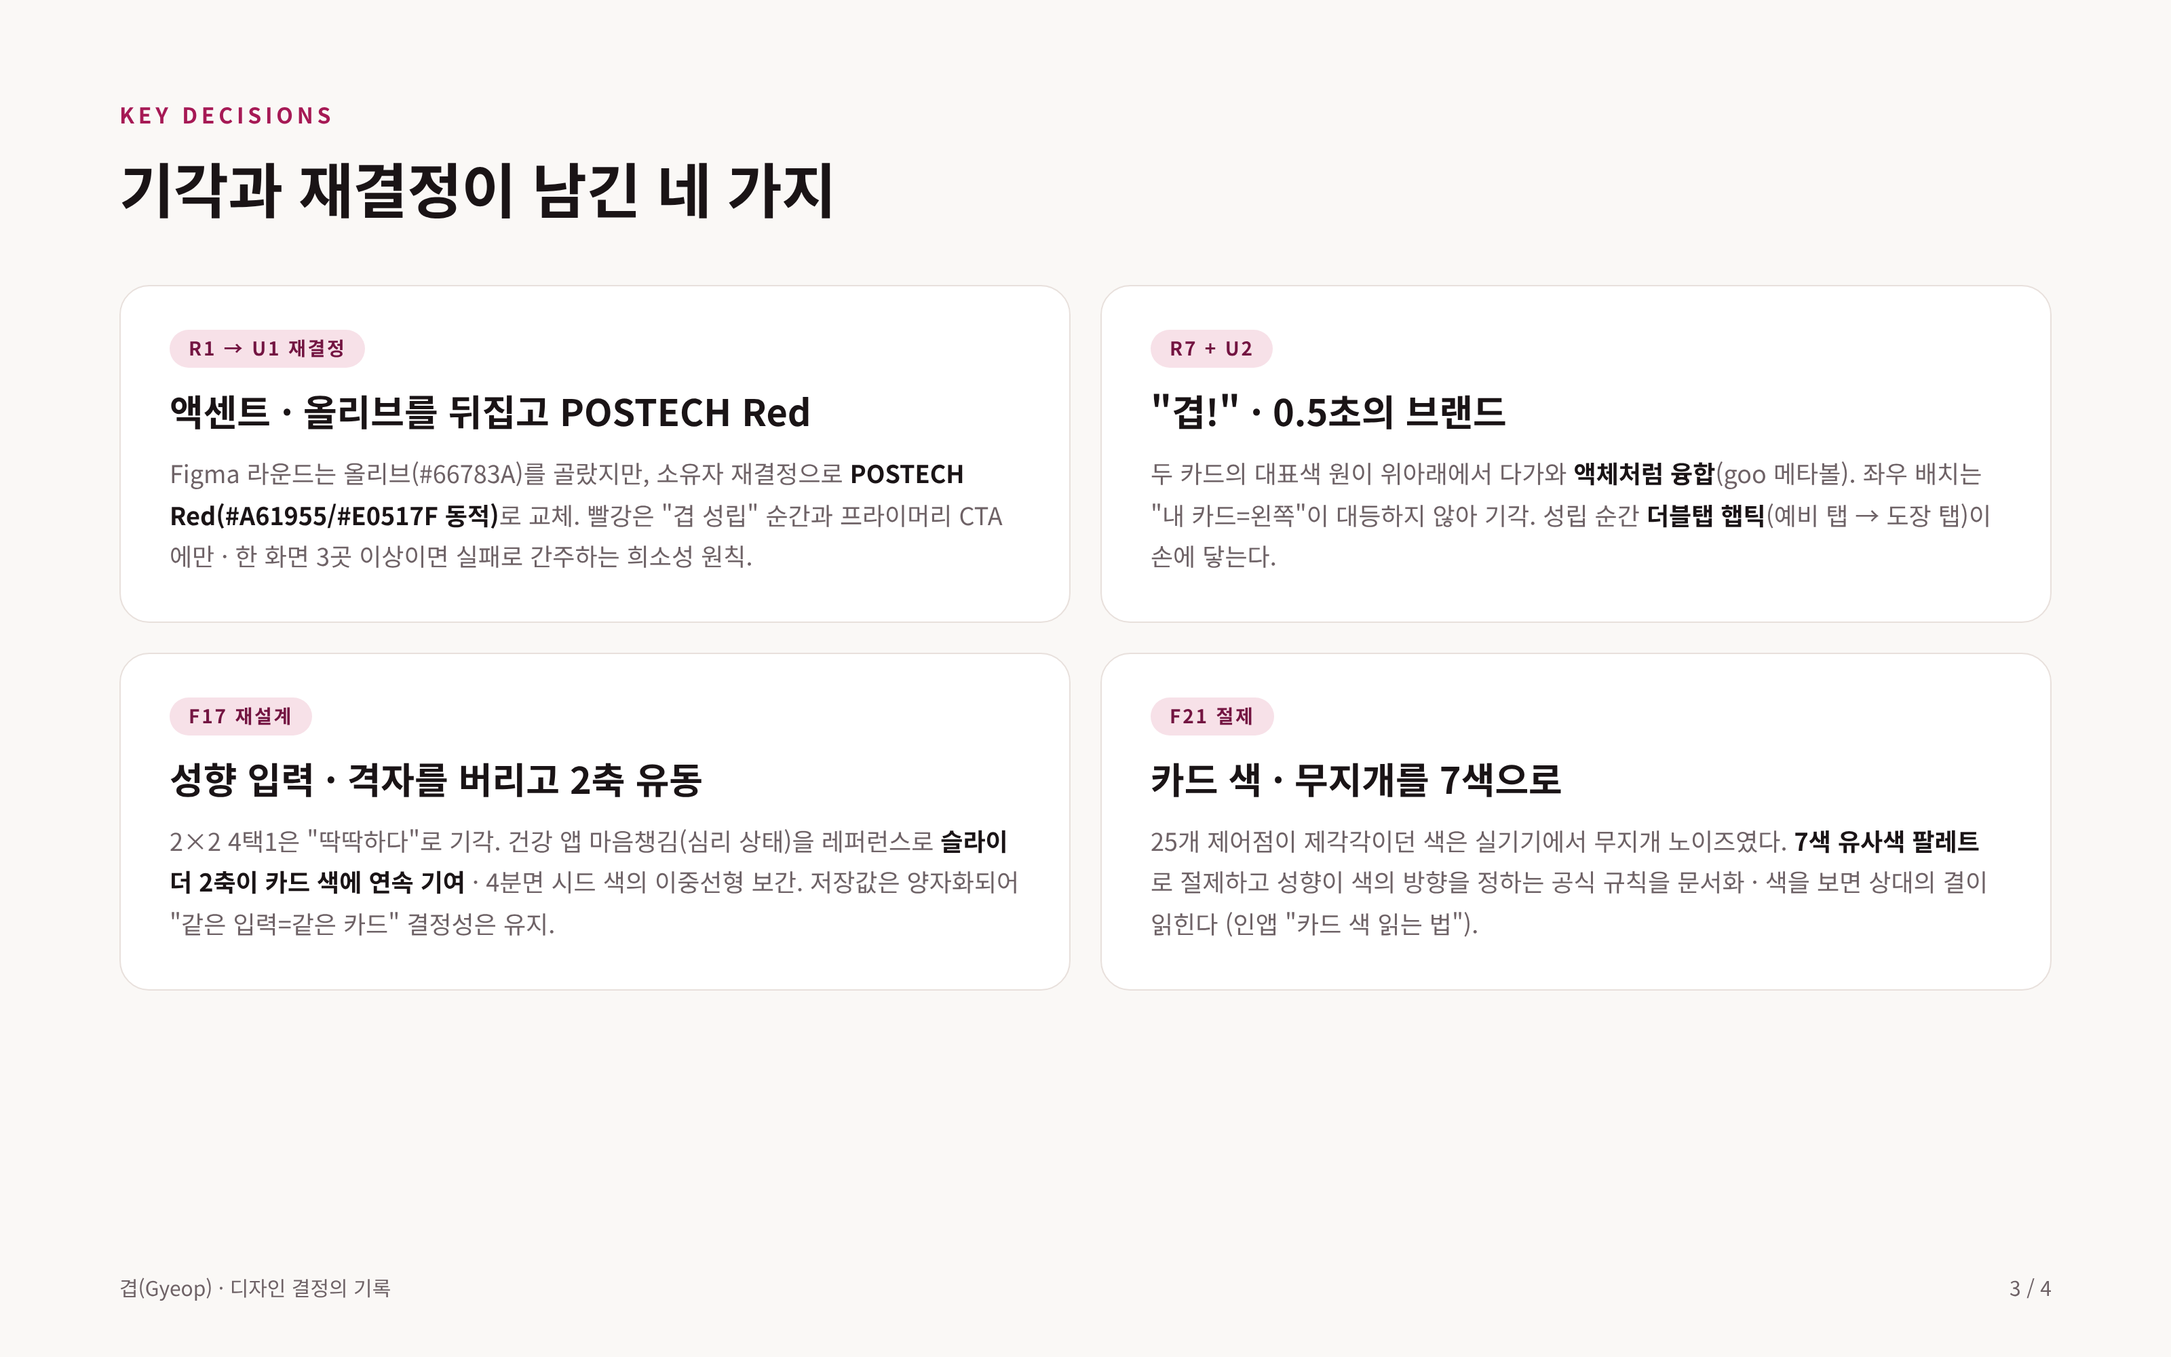
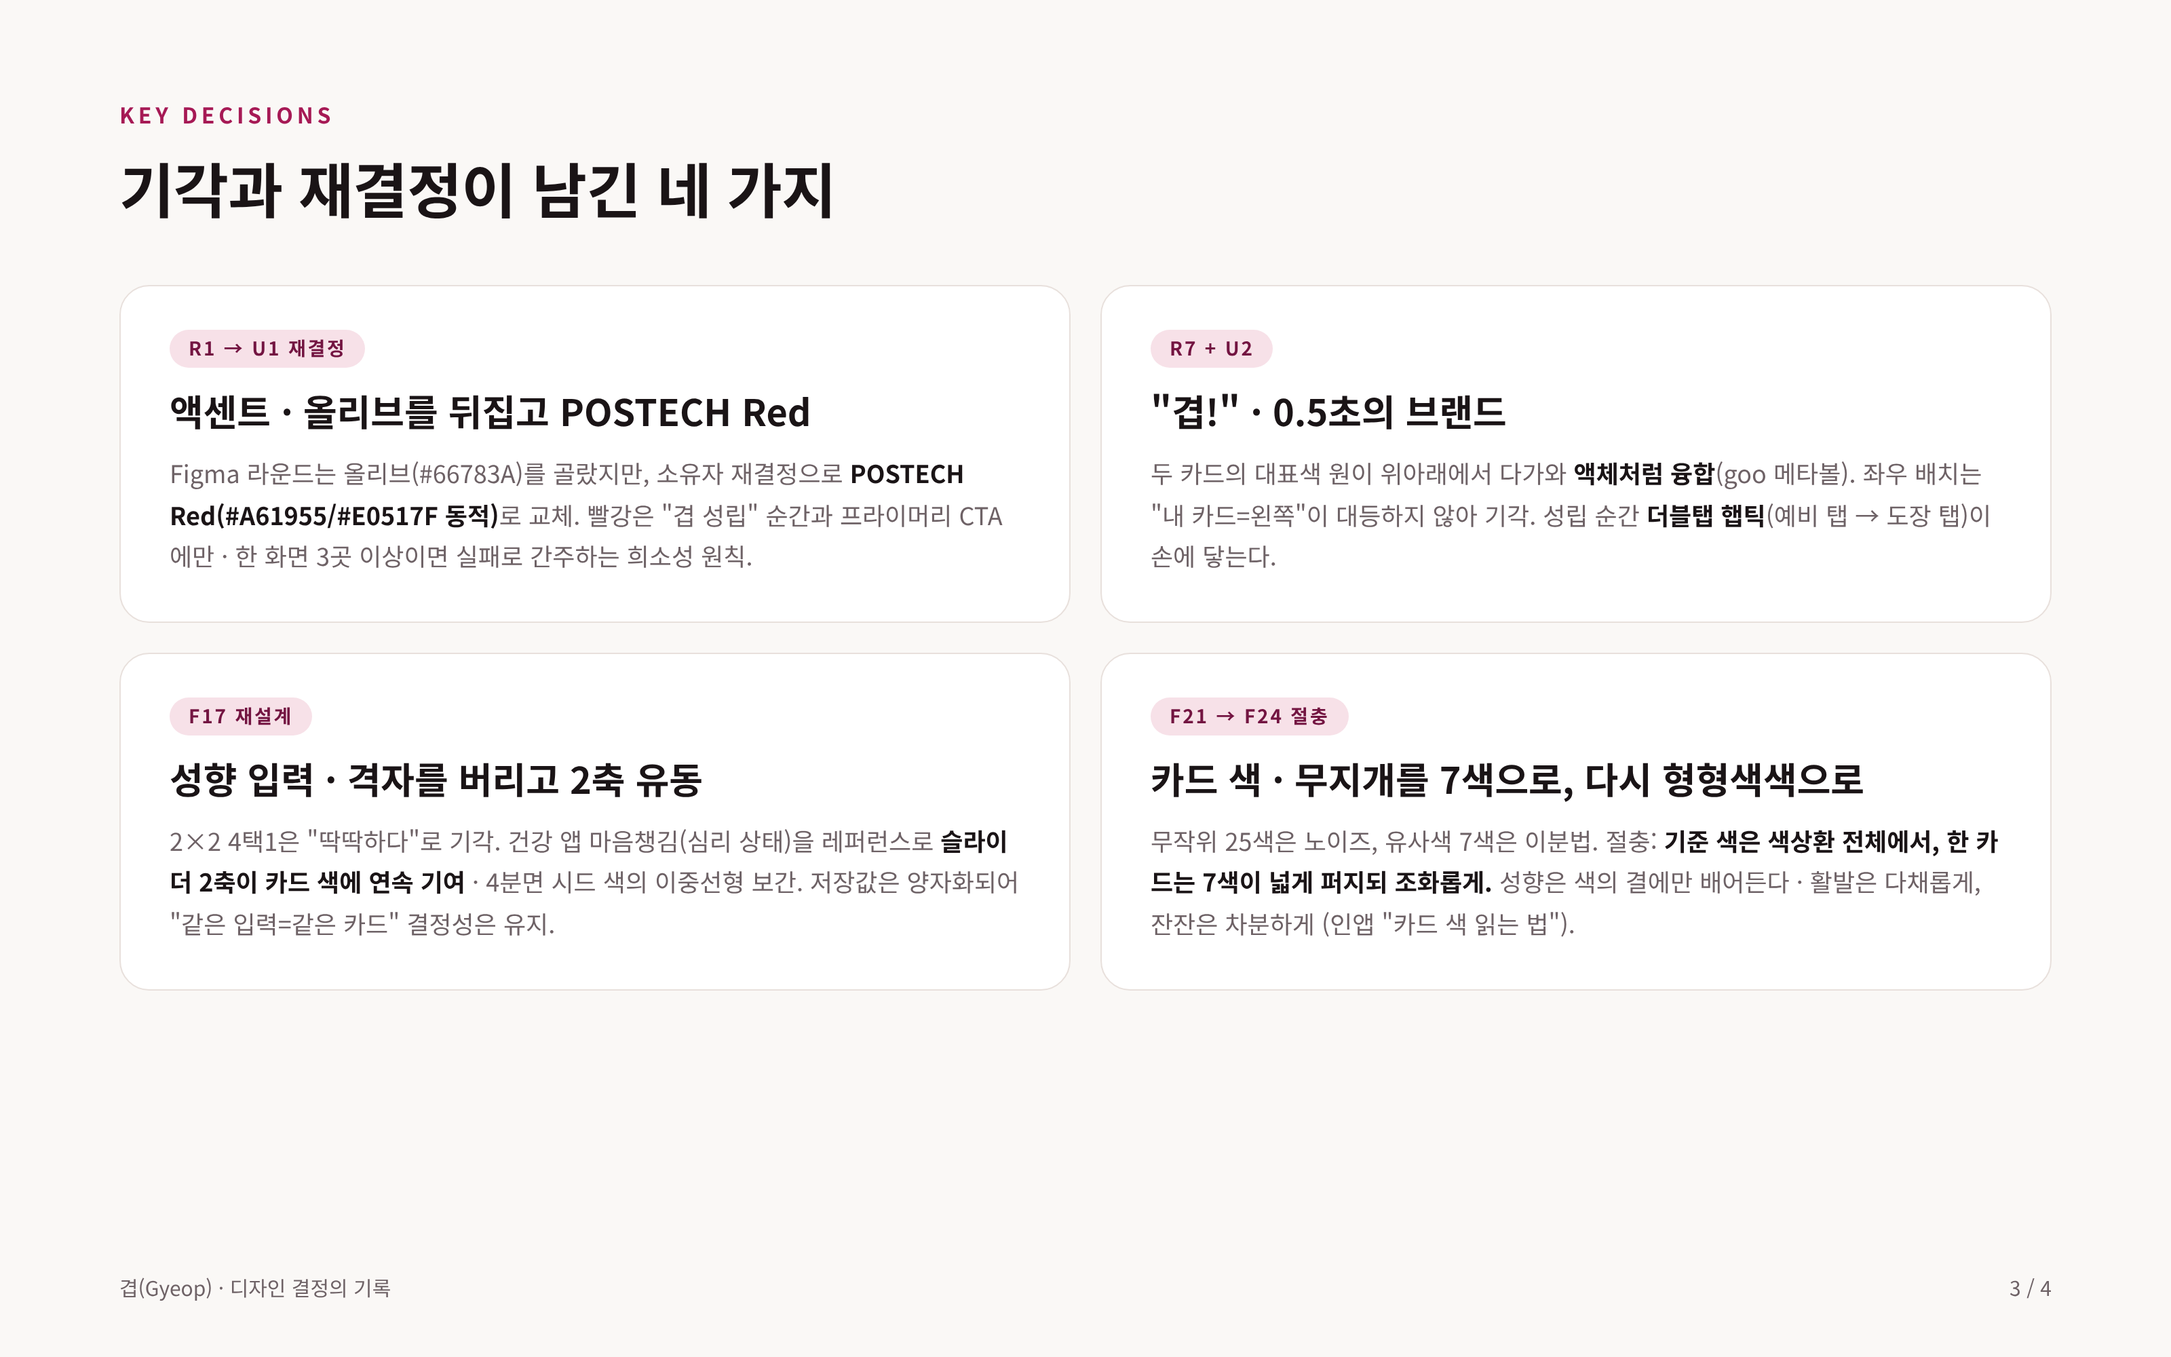
F24: 카드 색 절충 — 이분법 폐기, 기준색 전체 색상환 + 성향은 퍼짐·밝기의 결로
- CardVisual: 웜/쿨 대역 제거, 기준 색상 전 색상환. energy → hueSpread(활발 0.36/잔잔 0.24),
  venue → 명도대 유지. 7색·대각 흐름·대비 보정 그대로
- card-color-guide.md·인앱 가이드: '취미와 성향을 종합적으로 담아낸 것'으로 추상화
- 포트폴리오 슬라이드 3·4 문안·목업 갱신 + 재촬영

Changed region(s): [[0.5312, 0.558, 0.9062, 0.713], [0.5625, 0.496, 0.625, 0.558]]

diff --git a/Packages/GyeopPackages/Sources/CardKit/CardVisual.swift b/Packages/GyeopPackages/Sources/CardKit/CardVisual.swift
@@ -5,10 +5,11 @@ import SwiftUI
 /// 시드 → 카드 비주얼 파라미터의 결정적 변환.
 /// **계약: 같은 시드(+성향) = 같은 파라미터 = 픽셀 동일 렌더.**
 ///
-/// F21 (1차 시연 피드백): 한 카드의 색은 **7색 팔레트**로 절제한다 — 25개 제어점이
-/// 제각각이던 이전 방식은 무지개 노이즈가 됐다. 성향이 색의 큰 방향을 정하고
-/// (`docs/card-color-guide.md`의 공식 규칙), 시드가 그 안의 개별성을 정한다:
-/// · 활발 = 웜 톤(레드~골드) / 잔잔 = 쿨 톤(틸~인디고)
+/// F21→F24 (1차 시연 피드백): 한 카드의 색은 **7색 팔레트**로 절제하되(25점 무작위는
+/// 무지개 노이즈), 웜/쿨 이분법(F21)은 과해서 폐기 — 기준 색상은 색상환 전체에서
+/// 시드가 뽑아 카드마다 형형색색하고, 성향은 색의 "결"에만 은은하게 배어든다
+/// (`docs/card-color-guide.md`):
+/// · 활발 = 7색이 넓게 퍼진다(형형색색) / 잔잔 = 좁게 모인다(차분)
 /// · 실외 = 밝은 명도대 / 실내 = 깊은 명도대
 /// 채도·명도는 카드 위 흰 텍스트가 항상 WCAG AA 4.5:1 대비를 만족하도록 좁힌 범위
 /// (`saturationRange`·`brightnessRange`) 안에서 결정된다.
@@ -33,29 +34,28 @@ public struct CardVisual: Equatable, Sendable {
 
     /// 한 카드를 구성하는 색의 수 (F21 — "색상 다양성 7개 정도, 오묘한 분위기").
     public static let paletteCount = 7
-    /// 팔레트가 퍼지는 색상환 폭 — 유사색 범위 (≈50°). 좁을수록 오묘하고 단정하다.
-    public static let hueSpread: Double = 0.14
+    /// 7색이 퍼지는 색상환 폭 (F24 절충값). 활발은 넓게(형형색색), 잔잔은 좁게(차분).
+    public static let hueSpreadActive: Double = 0.36
+    public static let hueSpreadCalm: Double = 0.24
+    public static let hueSpreadNeutral: Double = 0.30
 
-    /// - Parameter style: 색의 큰 방향을 정한다 (card-color-guide.md 공식 규칙).
-    ///   nil이면(성향을 모르는 맥락) 시드가 색상환 전체에서 기준색을 뽑되 팔레트 절제는 동일.
+    /// - Parameter style: 색의 결을 정한다 (card-color-guide.md — 퍼짐과 밝기).
+    ///   기준 색상 자체는 항상 시드가 색상환 전체에서 뽑는다 (F24: 카드마다 형형색색).
     public init(seed: String, style: LeisureStyle? = nil) {
         var rng = SplitMix64(seed: Self.seedValue(from: seed))
 
-        // 1) 기준 색상: 성향의 에너지가 웜/쿨을 정하고, 시드가 그 안의 지점을 정한다.
-        let baseHue: Double
+        // 1) 기준 색상: 시드가 색상환 전체에서 — 취미·이름·이모지·성향이 종합된 결과.
+        let baseHue = Double.random(in: 0...1, using: &rng)
+
+        // 2) 퍼짐: 에너지가 7색이 얼마나 넓게 퍼질지를 정한다 (이분법 아닌 "결").
+        let spread: Double
         switch style?.energy {
-        case .active:
-            // 웜 — 레드(0.96)에서 골드(1.10=0.10)까지
-            baseHue = Double.random(in: 0.96...1.10, using: &rng)
-                .truncatingRemainder(dividingBy: 1)
-        case .calm:
-            // 쿨 — 틸(0.50)에서 인디고(0.68)까지
-            baseHue = Double.random(in: 0.50...0.68, using: &rng)
-        case nil:
-            baseHue = Double.random(in: 0...1, using: &rng)
+        case .active: spread = Self.hueSpreadActive
+        case .calm: spread = Self.hueSpreadCalm
+        case nil: spread = Self.hueSpreadNeutral
         }
 
-        // 2) 명도대: 장소가 밝기의 결을 정한다 (실외 = 밝음, 실내 = 깊음).
+        // 3) 명도대: 장소가 밝기의 결을 정한다 (실외 = 밝음, 실내 = 깊음).
         let brightnessBand: ClosedRange<Double>
         switch style?.venue {
         case .outdoor: brightnessBand = 0.53...0.62
@@ -63,11 +63,11 @@ public struct CardVisual: Equatable, Sendable {
         case nil: brightnessBand = Self.brightnessRange
         }
 
-        // 3) 7색 팔레트: 기준 색상 주변 유사색 범위에 고르게 + 시드 지터.
+        // 4) 7색 팔레트: 기준 색상 주변으로 고르게 퍼뜨리고 + 시드 지터.
         let palette: [ControlPoint] = (0..<Self.paletteCount).map { index in
             let position = Double(index) / Double(Self.paletteCount - 1) - 0.5
-            let jitter = Double.random(in: -0.012...0.012, using: &rng)
-            let hue = (baseHue + position * Self.hueSpread + jitter + 1)
+            let jitter = Double.random(in: -0.015...0.015, using: &rng)
+            let hue = (baseHue + position * spread + jitter + 1)
                 .truncatingRemainder(dividingBy: 1)
             let saturation = Double.random(in: Self.saturationRange, using: &rng)
             let rawBrightness = Double.random(in: brightnessBand, using: &rng)
@@ -77,7 +77,7 @@ public struct CardVisual: Equatable, Sendable {
             return ControlPoint(hue: hue, saturation: saturation, brightness: brightness)
         }
 
-        // 4) 25점 배치: 대각선 흐름으로 깔아 인접 점이 유사색이 되게 한다 — 색이 스며드는
+        // 5) 25점 배치: 대각선 흐름으로 깔아 인접 점이 유사색이 되게 한다 — 색이 스며드는
         //    결(오묘함)은 배치가 만든다. 시드 시프트로 카드마다 흐름의 시작점이 달라진다.
         let shift = Int.random(in: 0..<Self.paletteCount, using: &rng)
         controlPoints = (0..<Self.controlPointCount).map { index in

diff --git a/review/portfolio/design-history.html b/review/portfolio/design-history.html
@@ -111,6 +111,12 @@
     radial-gradient(70% 60% at 35% 85%, #A6742E 0%, transparent 68%),
     radial-gradient(55% 50% at 85% 85%, #96422E 0%, transparent 70%),
     #7E2A42; }
+  .new-mesh3 { background:
+    radial-gradient(60% 55% at 18% 18%, #8E2A5E 0%, transparent 70%),
+    radial-gradient(60% 55% at 82% 25%, #2E6E8E 0%, transparent 70%),
+    radial-gradient(65% 60% at 30% 82%, #A6742E 0%, transparent 68%),
+    radial-gradient(55% 50% at 85% 80%, #4E7E4E 0%, transparent 70%),
+    #5E3A6E; }
   .new-mesh2 { background:
     radial-gradient(60% 55% at 25% 20%, #1D6E7E 0%, transparent 70%),
     radial-gradient(65% 60% at 85% 35%, #2A4E9E 0%, transparent 70%),
@@ -231,11 +237,11 @@
         저장값은 양자화되어 "같은 입력=같은 카드" 결정성은 유지.</p>
     </div>
     <div class="decision">
-      <span class="tag">F21 절제</span>
-      <h3>카드 색 · 무지개를 7색으로</h3>
-      <p>25개 제어점이 제각각이던 색은 실기기에서 무지개 노이즈였다.
-        <b>7색 유사색 팔레트</b>로 절제하고 성향이 색의 방향을 정하는 공식 규칙을
-        문서화 · 색을 보면 상대의 결이 읽힌다 (인앱 "카드 색 읽는 법").</p>
+      <span class="tag">F21 → F24 절충</span>
+      <h3>카드 색 · 무지개를 7색으로, 다시 형형색색으로</h3>
+      <p>무작위 25색은 노이즈, 유사색 7색은 이분법. 절충: <b>기준 색은 색상환
+        전체에서, 한 카드는 7색이 넓게 퍼지되 조화롭게.</b> 성향은 색의 결에만
+        배어든다 · 활발은 다채롭게, 잔잔은 차분하게 (인앱 "카드 색 읽는 법").</p>
     </div>
   </div>
   <footer><span>겹(Gyeop) · 디자인 결정의 기록</span><span>3 / 4</span></footer>
@@ -250,16 +256,16 @@
       <div class="cards-demo">
         <div class="mini-card old-mesh"><span class="cap">이전 · 무작위 25색</span>
           <div class="nm">Pola</div><div class="tg">배고파요</div></div>
-        <div class="mini-card new-mesh"><span class="cap">F21 · 웜 7색 (활발)</span>
+        <div class="mini-card new-mesh3"><span class="cap">F24 · 7색 절충 (활발)</span>
           <div class="nm">Pola</div><div class="tg">배고파요</div></div>
       </div>
       <table class="rule-table">
-        <tr><td>활발</td><td><span class="sw" style="background:linear-gradient(90deg,#A61955,#DABA65)"></span>&nbsp; 웜 톤 · 레드에서 골드 사이의 온기</td></tr>
-        <tr><td>잔잔</td><td><span class="sw" style="background:linear-gradient(90deg,#2F6F74,#3A3A8E)"></span>&nbsp; 쿨 톤 · 틸에서 인디고 사이의 고요</td></tr>
-        <tr><td>실외 · 실내</td><td>밝은 명도대 · 깊은 명도대 · 볕과 조명의 결</td></tr>
+        <tr><td>활발</td><td><span class="sw" style="background:linear-gradient(90deg,#A61955,#A6742E,#2F6F74)"></span>&nbsp; 7색이 넓게 퍼진다, 다채로운 결</td></tr>
+        <tr><td>잔잔</td><td><span class="sw" style="background:linear-gradient(90deg,#2A4E9E,#38348E)"></span>&nbsp; 7색이 좁게 모인다, 차분한 결</td></tr>
+        <tr><td>실외 · 실내</td><td>밝은 명도대 · 깊은 명도대, 볕과 조명의 결</td></tr>
       </table>
-      <p class="evo-note">색이 곧 성향의 언어가 되도록, 규칙을 앱의 공식 문서로 공개
-        (건강 앱 교육 화면 모티브).</p>
+      <p class="evo-note">카드의 색은 취미와 성향을 종합적으로 담아낸 한 사람의 인상.
+        읽는 규칙은 앱의 공식 문서로 공개한다 (건강 앱 교육 화면 모티브).</p>
     </div>
     <div class="icon-journey">
       <div class="icon-step">

diff --git a/App/Features/Settings/SettingsView.swift b/App/Features/Settings/SettingsView.swift
@@ -91,27 +91,27 @@ struct CardColorGuideView: View {
     }
 
     private static let rules: [Rule] = [
-        Rule(signal: "활발", reading: "웜 톤. 레드에서 골드 사이의 온기"),
-        Rule(signal: "잔잔", reading: "쿨 톤. 틸에서 인디고 사이의 고요"),
-        Rule(signal: "실외", reading: "밝은 명도. 볕이 든 듯 맑아요"),
-        Rule(signal: "실내", reading: "깊은 명도. 조명이 낮은 듯 아늑해요"),
+        Rule(signal: "활발", reading: "색이 넓게 퍼져요. 다채로운 결"),
+        Rule(signal: "잔잔", reading: "색이 좁게 모여요. 차분한 결"),
+        Rule(signal: "실외", reading: "밝은 결. 볕이 든 듯 맑아요"),
+        Rule(signal: "실내", reading: "깊은 결. 조명이 낮은 듯 아늑해요"),
     ]
 
     var body: some View {
         List {
             Section {
-                Text("한 장의 카드는 7가지 색으로만 물듭니다. 색의 큰 방향은 성향이 정하고, 미묘한 차이는 이름·한 줄·이모지·관심사가 정해요. 같은 입력이면 언제나 같은 카드입니다.")
+                Text("카드의 색은 한 사람의 취미와 성향을 종합적으로 담아낸 것입니다. 고른 관심사, 이름, 한 줄, 이모지가 모두 섞여 세상에 하나뿐인 일곱 빛깔이 되고, 같은 입력이면 언제나 같은 카드가 됩니다.")
                     .font(DS.Typo.body)
             }
 
-            Section("색이 말하는 것") {
+            Section("색의 결이 말하는 것") {
                 ForEach(Self.rules) { rule in
                     LabeledContent(rule.signal, value: rule.reading)
                 }
             }
 
             Section {
-                Text("따뜻하고 밝은 카드라면 활발하고 바깥을 좋아하는 사람일 거예요. 차갑고 깊은 카드라면 잔잔한 실내의 결을 가진 사람이고요. 다음 겹에서 색부터 읽어보세요.")
+                Text("색이 다채롭게 일렁이면 활발한 사람, 한 톤으로 고요하면 잔잔한 사람일 거예요. 밝으면 바깥의 결, 깊으면 실내의 결. 다음 겹에서 색부터 읽어보세요.")
                     .font(DS.Typo.body)
                     .foregroundStyle(DS.Palette.secondaryText)
             } header: {

diff --git a/docs/card-color-guide.md b/docs/card-color-guide.md
@@ -1,29 +1,35 @@
-# 카드 색 읽는 법 — 공식 규칙 (F21)
+# 카드 색 읽는 법 — 공식 규칙 (F21·F24)
 
-애플 건강 앱이 "심박변이도가 무엇인가요"를 공식 문서로 알려주듯, 겹은 카드 색이
-무엇을 말하는지 앱의 공식 규칙으로 알려준다. 이 문서가 단일 진실 원천이고,
-인앱 화면(설정 > 카드 색 읽는 법, `CardColorGuideView`)은 이 내용을 그대로 보여준다.
+애플 건강 앱이 지표를 공식 문서로 알려주듯, 겹은 카드 색이 무엇을 담는지 앱의 공식
+규칙으로 알려준다. 이 문서가 단일 진실 원천이고, 인앱 화면(설정 > 카드 색 읽는 법,
+`CardColorGuideView`)은 이 내용을 그대로 보여준다.
 
-## 규칙
+## 카드는 무엇인가
 
-한 장의 카드는 **7가지 색**으로만 물든다. 색의 큰 방향은 성향이 정하고,
-그 안의 미묘한 차이는 이름·한 줄·이모지·관심사가 정한다. 같은 입력이면 언제나 같은 카드다.
+카드의 색은 **한 사람의 취미와 성향을 종합적으로 담아낸 것**이다. 고른 관심사,
+이름, 한 줄, 이모지가 모두 시드로 섞여 세상에 하나뿐인 색 조합이 되고,
+같은 입력이면 언제나 같은 카드가 된다. 특정 색이 특정 취미를 뜻하지는 않는다 —
+색은 그 사람 전체의 인상이다.
+
+## 규칙 (F24 — 이분법 폐기 절충안)
+
+한 장의 카드는 **7가지 색**으로만 물든다. 기준 색은 색상환 전체에서 나와
+카드마다 형형색색하되, 성향은 색의 **결**에 은은하게 배어든다:
 
 | 신호 | 카드에 드러나는 방식 |
 |---|---|
-| **활발** (energy = active) | 웜 톤 — 레드에서 골드 사이의 온기 |
-| **잔잔** (energy = calm) | 쿨 톤 — 틸에서 인디고 사이의 고요 |
+| **활발** (energy = active) | 7색이 넓게 퍼진다 — 형형색색, 다채로운 결 |
+| **잔잔** (energy = calm) | 7색이 좁게 모인다 — 차분하고 단정한 결 |
 | **실외** (venue = outdoor) | 밝은 명도대 — 볕이 든 듯 맑다 |
 | **실내** (venue = indoor) | 깊은 명도대 — 조명이 낮은 듯 아늑하다 |
-| 이름·한 줄·이모지·관심사 | 7색이 색상환 어디서 시작하고 어떻게 흐르는지(시드) |
 
-읽는 예: **따뜻하고 밝은 카드** = 활발 · 실외 (러닝·서핑의 결) /
-**차갑고 깊은 카드** = 잔잔 · 실내 (보드게임·독서의 결).
+~~F21의 웜/쿨 이분법(활발=레드~골드, 잔잔=틸~인디고)~~ 은 "너무 이분법적"이라는
+소유자 피드백으로 폐기 — 다양한 취미가 형형색색으로 드러나는 것이 우선이다.
 
 ## 구현 참조
 
-- `CardVisual(seed:style:)` — 7색 유사색 팔레트(`paletteCount`·`hueSpread`),
-  energy → 기준 색상 대역(웜 0.96~1.10 / 쿨 0.50~0.68),
-  venue → 명도 대역(실외 0.53~0.62 / 실내 0.45~0.54), 대각 흐름 배치.
+- `CardVisual(seed:style:)` — 기준 색상은 시드가 색상환 전체에서,
+  energy → 퍼짐(`hueSpreadActive` 0.36 / `hueSpreadCalm` 0.24),
+  venue → 명도 대역(실외 0.53~0.62 / 실내 0.45~0.54), 7색 대각 흐름 배치.
 - 흰 텍스트 4.5:1 대비 보정은 팔레트 색 단위로 유지 (R2 계약 승계).
 - 인앱 노출: `SettingsView` → "카드 색 읽는 법" (navigation-map §3).
